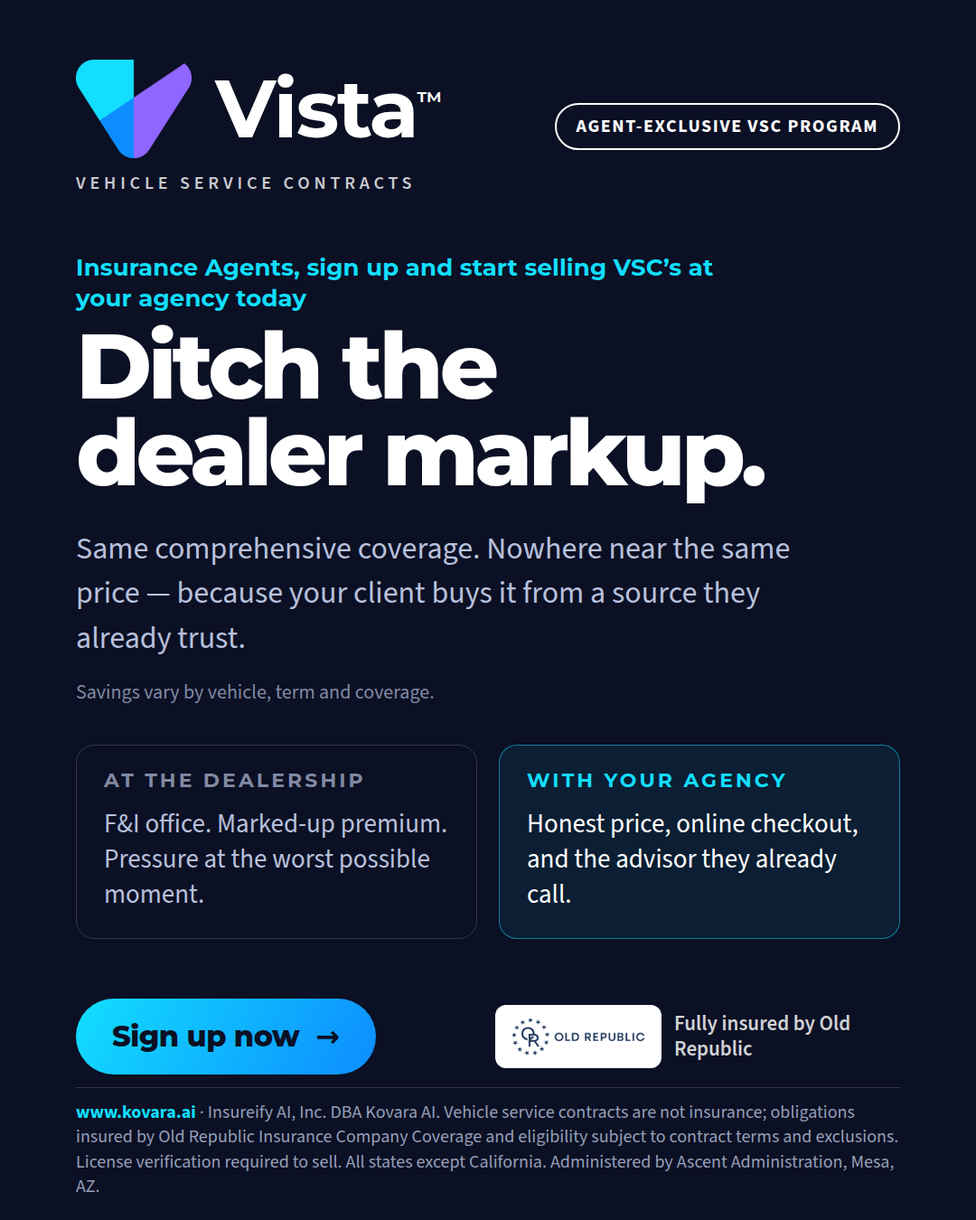
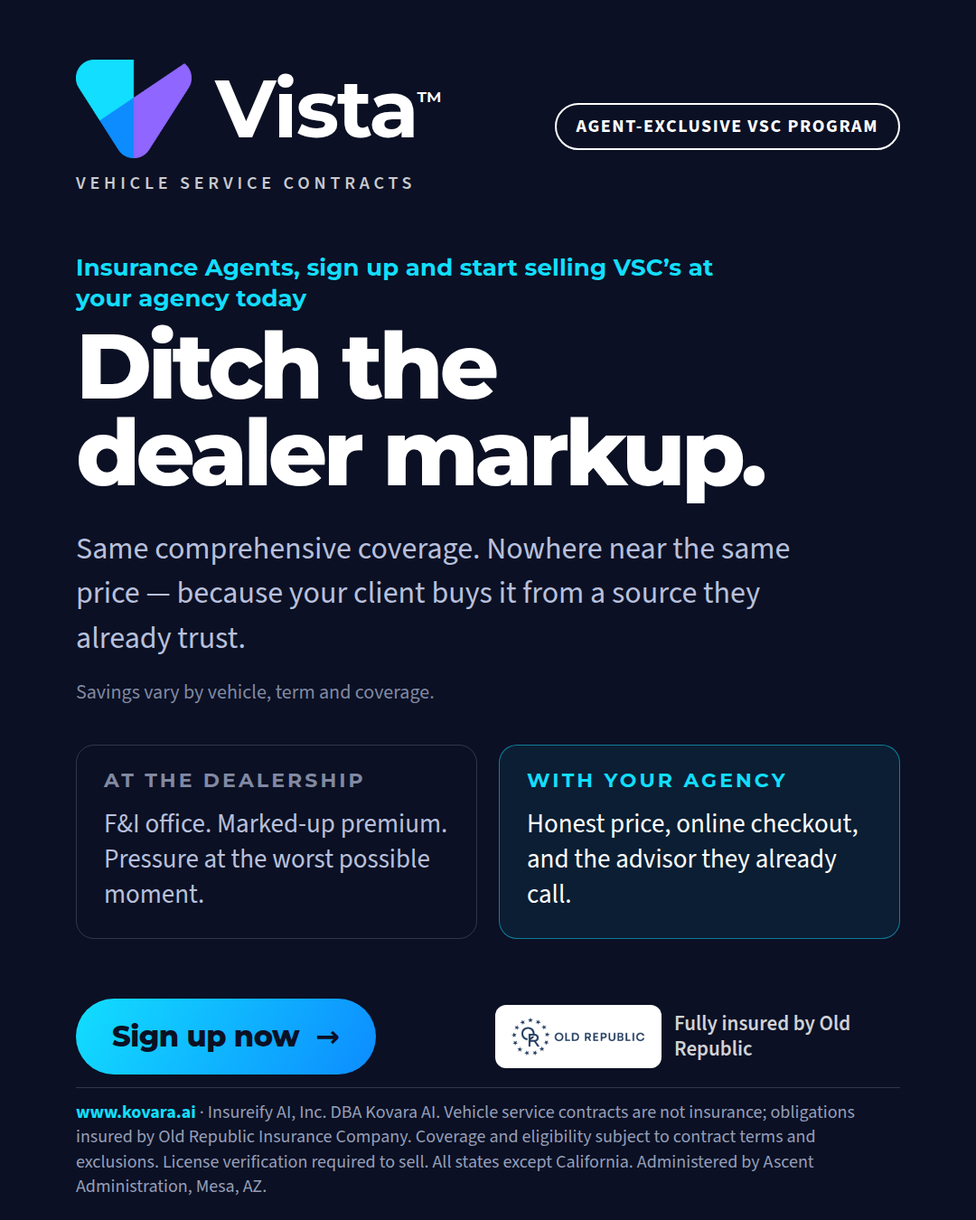
Fix the run-on in the Old Republic disclosure and re-export the creatives
A missing full stop after "Old Republic Insurance Company" ran the obligor
sentence into the terms-and-exclusions sentence, so the block read "...insured by
Old Republic Insurance Company Coverage and eligibility subject to..." — twenty
occurrences across the creatives, the caption boilerplate, the flow prototype and
the handoff README. It is punctuation only; no claim changed.

That also settles the disagreement between the art and the landing page. They now
carry the same text, save one sentence: the page adds the eligible-vehicle
qualifier because it displays a count and an ad does not.

AD_DISCLOSURE and REELS_SHORT_DISCLOSURE join the page constant in
lib/compliance.ts, and tests read the handoff HTML directly to assert all
seventeen CTA-bearing frames carry the block verbatim, that the Reels cuts carry
the short line, and that no run-on comes back. All nineteen creatives re-exported
against the corrected source.

export-ads.mts now takes CHROMIUM_PATH, so it runs where a browser already
exists rather than only against Playwright's own download.

Not addressed, and needing counsel rather than a guess: the disclosure names an
insurer and an administrator but no obligor, and the exact Old Republic
underwriting entity name is still unconfirmed. Both are written up in
ads/README.md; adding a sentence later means one edit and one re-export.

87 tests pass.

Claude-Session: https://claude.ai/code/session_0182HthwowaDjbGPR8FtxGoU

Changed region(s): [[0.0917, 0.9022, 0.9167, 0.9956]]

diff --git a/design_handoff_agent_signup/AgentSignupAds.dc.html b/design_handoff_agent_signup/AgentSignupAds.dc.html
@@ -51,7 +51,7 @@
 <span style="font:600 23px/1.2 var(--font-body);color:rgba(255,255,255,0.82);max-width:250px">Fully insured by Old Republic</span>
 </div>
 </div>
-<div style="font:400 20px/1.38 var(--font-body);color:rgba(184,192,220,0.82);padding-top:14px;border-top:1px solid rgba(255,255,255,0.16)"><b style="color:#12DEFF;font-weight:700">www.kovara.ai</b> &#183; Insureify AI, Inc. DBA Kovara AI. Vehicle service contracts are not insurance; obligations insured by Old Republic Insurance Company Coverage and eligibility subject to contract terms and exclusions. License verification required to sell. All states except California. Administered by Ascent Administration, Mesa, AZ.</div>
+<div style="font:400 20px/1.38 var(--font-body);color:rgba(184,192,220,0.82);padding-top:14px;border-top:1px solid rgba(255,255,255,0.16)"><b style="color:#12DEFF;font-weight:700">www.kovara.ai</b> &#183; Insureify AI, Inc. DBA Kovara AI. Vehicle service contracts are not insurance; obligations insured by Old Republic Insurance Company. Coverage and eligibility subject to contract terms and exclusions. License verification required to sell. All states except California. Administered by Ascent Administration, Mesa, AZ.</div>
 </div>
 </div>
 </div>
@@ -82,7 +82,7 @@
 <span style="font:600 23px/1.2 var(--font-body);color:rgba(255,255,255,0.82);max-width:250px">Fully insured by Old Republic</span>
 </div>
 </div>
-<div style="font:400 20px/1.38 var(--font-body);color:rgba(184,192,220,0.82);padding-top:14px;border-top:1px solid rgba(255,255,255,0.16)"><b style="color:#12DEFF;font-weight:700">www.kovara.ai</b> &#183; Insureify AI, Inc. DBA Kovara AI. Vehicle service contracts are not insurance; obligations insured by Old Republic Insurance Company Coverage and eligibility subject to contract terms and exclusions. License verification required to sell. All states except California. Administered by Ascent Administration, Mesa, AZ.</div>
+<div style="font:400 20px/1.38 var(--font-body);color:rgba(184,192,220,0.82);padding-top:14px;border-top:1px solid rgba(255,255,255,0.16)"><b style="color:#12DEFF;font-weight:700">www.kovara.ai</b> &#183; Insureify AI, Inc. DBA Kovara AI. Vehicle service contracts are not insurance; obligations insured by Old Republic Insurance Company. Coverage and eligibility subject to contract terms and exclusions. License verification required to sell. All states except California. Administered by Ascent Administration, Mesa, AZ.</div>
 </div>
 </div>
 </div>
@@ -117,7 +117,7 @@
 <span style="font:600 23px/1.2 var(--font-body);color:rgba(255,255,255,0.82);max-width:250px">Fully insured by Old Republic</span>
 </div>
 </div>
-<div style="font:400 20px/1.38 var(--font-body);color:rgba(184,192,220,0.82);padding-top:14px;border-top:1px solid rgba(255,255,255,0.16)"><b style="color:#12DEFF;font-weight:700">www.kovara.ai</b> &#183; Insureify AI, Inc. DBA Kovara AI. Vehicle service contracts are not insurance; obligations insured by Old Republic Insurance Company Coverage and eligibility subject to contract terms and exclusions. License verification required to sell. All states except California. Administered by Ascent Administration, Mesa, AZ.</div>
+<div style="font:400 20px/1.38 var(--font-body);color:rgba(184,192,220,0.82);padding-top:14px;border-top:1px solid rgba(255,255,255,0.16)"><b style="color:#12DEFF;font-weight:700">www.kovara.ai</b> &#183; Insureify AI, Inc. DBA Kovara AI. Vehicle service contracts are not insurance; obligations insured by Old Republic Insurance Company. Coverage and eligibility subject to contract terms and exclusions. License verification required to sell. All states except California. Administered by Ascent Administration, Mesa, AZ.</div>
 </div>
 </div>
 </div>
@@ -145,7 +145,7 @@
 <span style="font:600 23px/1.2 var(--font-body);color:rgba(255,255,255,0.82);max-width:250px">Fully insured by Old Republic</span>
 </div>
 </div>
-<div style="font:400 20px/1.38 var(--font-body);color:rgba(184,192,220,0.82);padding-top:14px;border-top:1px solid rgba(255,255,255,0.16)"><b style="color:#12DEFF;font-weight:700">www.kovara.ai</b> &#183; Insureify AI, Inc. DBA Kovara AI. Vehicle service contracts are not insurance; obligations insured by Old Republic Insurance Company Coverage and eligibility subject to contract terms and exclusions. License verification required to sell. All states except California. Administered by Ascent Administration, Mesa, AZ.</div>
+<div style="font:400 20px/1.38 var(--font-body);color:rgba(184,192,220,0.82);padding-top:14px;border-top:1px solid rgba(255,255,255,0.16)"><b style="color:#12DEFF;font-weight:700">www.kovara.ai</b> &#183; Insureify AI, Inc. DBA Kovara AI. Vehicle service contracts are not insurance; obligations insured by Old Republic Insurance Company. Coverage and eligibility subject to contract terms and exclusions. License verification required to sell. All states except California. Administered by Ascent Administration, Mesa, AZ.</div>
 </div>
 </div>
 </div>
@@ -182,7 +182,7 @@
 <span style="font:600 23px/1.2 var(--font-body);color:rgba(255,255,255,0.82);max-width:250px">Fully insured by Old Republic</span>
 </div>
 </div>
-<div style="font:400 20px/1.38 var(--font-body);color:rgba(184,192,220,0.82);padding-top:14px;border-top:1px solid rgba(255,255,255,0.16)"><b style="color:#12DEFF;font-weight:700">www.kovara.ai</b> &#183; Insureify AI, Inc. DBA Kovara AI. Vehicle service contracts are not insurance; obligations insured by Old Republic Insurance Company Coverage and eligibility subject to contract terms and exclusions. License verification required to sell. All states except California. Administered by Ascent Administration, Mesa, AZ.</div>
+<div style="font:400 20px/1.38 var(--font-body);color:rgba(184,192,220,0.82);padding-top:14px;border-top:1px solid rgba(255,255,255,0.16)"><b style="color:#12DEFF;font-weight:700">www.kovara.ai</b> &#183; Insureify AI, Inc. DBA Kovara AI. Vehicle service contracts are not insurance; obligations insured by Old Republic Insurance Company. Coverage and eligibility subject to contract terms and exclusions. License verification required to sell. All states except California. Administered by Ascent Administration, Mesa, AZ.</div>
 </div>
 </div>
 </div>
@@ -215,7 +215,7 @@
 <a href="https://www.kovara.ai/onboarding?utm_source=meta&amp;utm_medium=paid_social&amp;utm_campaign=agent_signup&amp;utm_content=B1" style="display:inline-flex;align-items:center;gap:18px;background:#1D254C;color:#FFFFFF;font:800 32px/1 var(--font-display);letter-spacing:-0.015em;padding:26px 40px;border-radius:999px;text-decoration:none;white-space:nowrap">Sign up now<span style="font:700 34px/1">&#8594;</span></a>
 <div style="display:flex;align-items:center;gap:14px"><span style="background:#FFFFFF;border:1px solid rgba(29,37,76,0.12);border-radius:12px;padding:12px 16px;display:inline-flex"><img src="assets/old-republic-logo.png" alt="Old Republic" style="height:42px;width:auto"></span><span style="font:600 23px/1.2 var(--font-body);color:inherit;opacity:0.85;max-width:250px">Fully insured by Old Republic</span></div>
 </div>
-<div style="font:400 20px/1.38 var(--font-body);color:rgba(29,37,76,0.88);padding-top:14px;border-top:1px solid rgba(29,37,76,0.2)"><b style="color:#1D254C;font-weight:700">www.kovara.ai</b> &#183; Insureify AI, Inc. DBA Kovara AI. Vehicle service contracts are not insurance; obligations insured by Old Republic Insurance Company Coverage and eligibility subject to contract terms and exclusions. License verification required to sell. All states except California. Administered by Ascent Administration, Mesa, AZ.</div>
+<div style="font:400 20px/1.38 var(--font-body);color:rgba(29,37,76,0.88);padding-top:14px;border-top:1px solid rgba(29,37,76,0.2)"><b style="color:#1D254C;font-weight:700">www.kovara.ai</b> &#183; Insureify AI, Inc. DBA Kovara AI. Vehicle service contracts are not insurance; obligations insured by Old Republic Insurance Company. Coverage and eligibility subject to contract terms and exclusions. License verification required to sell. All states except California. Administered by Ascent Administration, Mesa, AZ.</div>
 </div>
 </div>
 </div>
@@ -249,7 +249,7 @@
 <a href="https://www.kovara.ai/onboarding?utm_source=meta&amp;utm_medium=paid_social&amp;utm_campaign=agent_signup&amp;utm_content=B2" style="display:inline-flex;align-items:center;gap:18px;background:linear-gradient(120deg,#12DEFF 0%,#0D8CFF 100%);color:#0B1024;font:800 32px/1 var(--font-display);letter-spacing:-0.015em;padding:26px 40px;border-radius:999px;text-decoration:none;white-space:nowrap">Sign up now<span style="font:700 34px/1">&#8594;</span></a>
 <div style="display:flex;align-items:center;gap:14px"><span style="background:#FFFFFF;border:1px solid rgba(29,37,76,0.12);border-radius:12px;padding:12px 16px;display:inline-flex"><img src="assets/old-republic-logo.png" alt="Old Republic" style="height:42px;width:auto"></span><span style="font:600 23px/1.2 var(--font-body);color:inherit;opacity:0.85;max-width:250px">Fully insured by Old Republic</span></div>
 </div>
-<div style="font:400 20px/1.38 var(--font-body);color:#4E5670;padding-top:14px;border-top:1px solid rgba(29,37,76,0.14)"><b style="color:#0D8CFF;font-weight:700">www.kovara.ai</b> &#183; Insureify AI, Inc. DBA Kovara AI. Vehicle service contracts are not insurance; obligations insured by Old Republic Insurance Company Coverage and eligibility subject to contract terms and exclusions. License verification required to sell. All states except California. Administered by Ascent Administration, Mesa, AZ.</div>
+<div style="font:400 20px/1.38 var(--font-body);color:#4E5670;padding-top:14px;border-top:1px solid rgba(29,37,76,0.14)"><b style="color:#0D8CFF;font-weight:700">www.kovara.ai</b> &#183; Insureify AI, Inc. DBA Kovara AI. Vehicle service contracts are not insurance; obligations insured by Old Republic Insurance Company. Coverage and eligibility subject to contract terms and exclusions. License verification required to sell. All states except California. Administered by Ascent Administration, Mesa, AZ.</div>
 </div>
 </div>
 </div>
@@ -274,7 +274,7 @@
 <a href="https://www.kovara.ai/onboarding?utm_source=meta&amp;utm_medium=paid_social&amp;utm_campaign=agent_signup&amp;utm_content=B3" style="display:inline-flex;align-items:center;gap:18px;background:#12DEFF;color:#0B1024;font:800 32px/1 var(--font-display);letter-spacing:-0.015em;padding:26px 40px;border-radius:999px;text-decoration:none;white-space:nowrap">Sign up now<span style="font:700 34px/1">&#8594;</span></a>
 <div style="display:flex;align-items:center;gap:14px"><span style="background:#FFFFFF;border-radius:12px;padding:12px 16px;display:inline-flex"><img src="assets/old-republic-logo.png" alt="Old Republic" style="height:42px;width:auto"></span><span style="font:600 23px/1.2 var(--font-body);color:inherit;opacity:0.85;max-width:250px">Fully insured by Old Republic</span></div>
 </div>
-<div style="font:400 20px/1.38 var(--font-body);color:rgba(184,192,220,0.82);padding-top:14px;border-top:1px solid rgba(255,255,255,0.16)"><b style="color:#12DEFF;font-weight:700">www.kovara.ai</b> &#183; Insureify AI, Inc. DBA Kovara AI. Vehicle service contracts are not insurance; obligations insured by Old Republic Insurance Company Coverage and eligibility subject to contract terms and exclusions. License verification required to sell. All states except California. Administered by Ascent Administration, Mesa, AZ.</div>
+<div style="font:400 20px/1.38 var(--font-body);color:rgba(184,192,220,0.82);padding-top:14px;border-top:1px solid rgba(255,255,255,0.16)"><b style="color:#12DEFF;font-weight:700">www.kovara.ai</b> &#183; Insureify AI, Inc. DBA Kovara AI. Vehicle service contracts are not insurance; obligations insured by Old Republic Insurance Company. Coverage and eligibility subject to contract terms and exclusions. License verification required to sell. All states except California. Administered by Ascent Administration, Mesa, AZ.</div>
 </div>
 </div>
 </div>
@@ -300,7 +300,7 @@
 <a href="https://www.kovara.ai/onboarding?utm_source=meta&amp;utm_medium=paid_social&amp;utm_campaign=agent_signup&amp;utm_content=B4" style="display:inline-flex;align-items:center;gap:18px;background:linear-gradient(120deg,#12DEFF 0%,#0D8CFF 100%);color:#0B1024;font:800 32px/1 var(--font-display);letter-spacing:-0.015em;padding:26px 40px;border-radius:999px;text-decoration:none;white-space:nowrap">Sign up now<span style="font:700 34px/1">&#8594;</span></a>
 <div style="display:flex;align-items:center;gap:14px"><span style="background:#FFFFFF;border:1px solid rgba(29,37,76,0.12);border-radius:12px;padding:12px 16px;display:inline-flex"><img src="assets/old-republic-logo.png" alt="Old Republic" style="height:42px;width:auto"></span><span style="font:600 23px/1.2 var(--font-body);color:inherit;opacity:0.85;max-width:250px">Fully insured by Old Republic</span></div>
 </div>
-<div style="font:400 20px/1.38 var(--font-body);color:#4E5670;padding-top:14px;border-top:1px solid rgba(29,37,76,0.14)"><b style="color:#0D8CFF;font-weight:700">www.kovara.ai</b> &#183; Insureify AI, Inc. DBA Kovara AI. Vehicle service contracts are not insurance; obligations insured by Old Republic Insurance Company Coverage and eligibility subject to contract terms and exclusions. License verification required to sell. All states except California. Administered by Ascent Administration, Mesa, AZ.</div>
+<div style="font:400 20px/1.38 var(--font-body);color:#4E5670;padding-top:14px;border-top:1px solid rgba(29,37,76,0.14)"><b style="color:#0D8CFF;font-weight:700">www.kovara.ai</b> &#183; Insureify AI, Inc. DBA Kovara AI. Vehicle service contracts are not insurance; obligations insured by Old Republic Insurance Company. Coverage and eligibility subject to contract terms and exclusions. License verification required to sell. All states except California. Administered by Ascent Administration, Mesa, AZ.</div>
 </div>
 </div>
 </div>
@@ -328,7 +328,7 @@
 <a href="https://www.kovara.ai/onboarding?utm_source=meta&amp;utm_medium=paid_social&amp;utm_campaign=agent_signup&amp;utm_content=B5" style="display:inline-flex;align-items:center;gap:18px;background:#1D254C;color:#FFFFFF;font:800 32px/1 var(--font-display);letter-spacing:-0.015em;padding:26px 40px;border-radius:999px;text-decoration:none;white-space:nowrap">Sign up now<span style="font:700 34px/1">&#8594;</span></a>
 <div style="display:flex;align-items:center;gap:14px"><span style="background:#FFFFFF;border-radius:12px;padding:12px 16px;display:inline-flex"><img src="assets/old-republic-logo.png" alt="Old Republic" style="height:42px;width:auto"></span><span style="font:600 23px/1.2 var(--font-body);color:inherit;opacity:0.85;max-width:250px">Fully insured by Old Republic</span></div>
 </div>
-<div style="font:400 20px/1.38 var(--font-body);color:rgba(11,16,36,0.94);padding-top:14px;border-top:1px solid rgba(11,16,36,0.2)"><b style="color:#0B1024;font-weight:700">www.kovara.ai</b> &#183; Insureify AI, Inc. DBA Kovara AI. Vehicle service contracts are not insurance; obligations insured by Old Republic Insurance Company Coverage and eligibility subject to contract terms and exclusions. License verification required to sell. All states except California. Administered by Ascent Administration, Mesa, AZ.</div>
+<div style="font:400 20px/1.38 var(--font-body);color:rgba(11,16,36,0.94);padding-top:14px;border-top:1px solid rgba(11,16,36,0.2)"><b style="color:#0B1024;font-weight:700">www.kovara.ai</b> &#183; Insureify AI, Inc. DBA Kovara AI. Vehicle service contracts are not insurance; obligations insured by Old Republic Insurance Company. Coverage and eligibility subject to contract terms and exclusions. License verification required to sell. All states except California. Administered by Ascent Administration, Mesa, AZ.</div>
 </div>
 </div>
 </div>
@@ -356,7 +356,7 @@
 <a href="https://www.kovara.ai/onboarding?utm_source=meta&amp;utm_medium=paid_social&amp;utm_campaign=agent_signup&amp;utm_content=S1" style="display:inline-flex;align-items:center;gap:18px;background:linear-gradient(120deg,#12DEFF 0%,#0D8CFF 100%);color:#0B1024;font:800 32px/1 var(--font-display);letter-spacing:-0.015em;padding:26px 40px;border-radius:999px;text-decoration:none;white-space:nowrap">Sign up now<span style="font:700 34px/1">&#8594;</span></a>
 <div style="display:flex;align-items:center;gap:14px"><span style="background:#FFFFFF;border:1px solid rgba(29,37,76,0.12);border-radius:12px;padding:12px 16px;display:inline-flex"><img src="assets/old-republic-logo.png" alt="Old Republic" style="height:42px;width:auto"></span><span style="font:600 23px/1.2 var(--font-body);color:inherit;opacity:0.85;max-width:250px">Fully insured by Old Republic</span></div>
 </div>
-<div style="font:400 20px/1.38 var(--font-body);color:rgba(184,192,220,0.82);padding-top:14px;border-top:1px solid rgba(255,255,255,0.16)"><b style="color:#12DEFF;font-weight:700">www.kovara.ai</b> &#183; Insureify AI, Inc. DBA Kovara AI. Vehicle service contracts are not insurance; obligations insured by Old Republic Insurance Company Coverage and eligibility subject to contract terms and exclusions. License verification required to sell. All states except California. Administered by Ascent Administration, Mesa, AZ.</div>
+<div style="font:400 20px/1.38 var(--font-body);color:rgba(184,192,220,0.82);padding-top:14px;border-top:1px solid rgba(255,255,255,0.16)"><b style="color:#12DEFF;font-weight:700">www.kovara.ai</b> &#183; Insureify AI, Inc. DBA Kovara AI. Vehicle service contracts are not insurance; obligations insured by Old Republic Insurance Company. Coverage and eligibility subject to contract terms and exclusions. License verification required to sell. All states except California. Administered by Ascent Administration, Mesa, AZ.</div>
 </div>
 </div>
 <div style="font:700 16px/1.35 var(--font-body);color:#353C54">S1 · 1:1 &#183; Speed (Ledger)</div>
@@ -374,7 +374,7 @@
 <a href="https://www.kovara.ai/onboarding?utm_source=meta&amp;utm_medium=paid_social&amp;utm_campaign=agent_signup&amp;utm_content=S2" style="display:inline-flex;align-items:center;gap:18px;background:linear-gradient(120deg,#12DEFF 0%,#0D8CFF 100%);color:#0B1024;font:800 32px/1 var(--font-display);letter-spacing:-0.015em;padding:26px 40px;border-radius:999px;text-decoration:none;white-space:nowrap">Sign up now<span style="font:700 34px/1">&#8594;</span></a>
 <div style="display:flex;align-items:center;gap:14px"><span style="background:#FFFFFF;border:1px solid rgba(29,37,76,0.12);border-radius:12px;padding:12px 16px;display:inline-flex"><img src="assets/old-republic-logo.png" alt="Old Republic" style="height:42px;width:auto"></span><span style="font:600 23px/1.2 var(--font-body);color:inherit;opacity:0.85;max-width:250px">Fully insured by Old Republic</span></div>
 </div>
-<div style="font:400 20px/1.38 var(--font-body);color:rgba(184,192,220,0.82);padding-top:14px;border-top:1px solid rgba(255,255,255,0.16)"><b style="color:#12DEFF;font-weight:700">www.kovara.ai</b> &#183; Insureify AI, Inc. DBA Kovara AI. Vehicle service contracts are not insurance; obligations insured by Old Republic Insurance Company Coverage and eligibility subject to contract terms and exclusions. License verification required to sell. All states except California. Administered by Ascent Administration, Mesa, AZ.</div>
+<div style="font:400 20px/1.38 var(--font-body);color:rgba(184,192,220,0.82);padding-top:14px;border-top:1px solid rgba(255,255,255,0.16)"><b style="color:#12DEFF;font-weight:700">www.kovara.ai</b> &#183; Insureify AI, Inc. DBA Kovara AI. Vehicle service contracts are not insurance; obligations insured by Old Republic Insurance Company. Coverage and eligibility subject to contract terms and exclusions. License verification required to sell. All states except California. Administered by Ascent Administration, Mesa, AZ.</div>
 </div>
 </div>
 <div style="font:700 16px/1.35 var(--font-body);color:#353C54">S2 · 1:1 &#183; Dealer markup (Ledger)</div>
@@ -396,7 +396,7 @@
 <a href="https://www.kovara.ai/onboarding?utm_source=meta&amp;utm_medium=paid_social&amp;utm_campaign=agent_signup&amp;utm_content=S3" style="display:inline-flex;align-items:center;gap:18px;background:#1D254C;color:#FFFFFF;font:800 32px/1 var(--font-display);letter-spacing:-0.015em;padding:26px 40px;border-radius:999px;text-decoration:none;white-space:nowrap">Sign up now<span style="font:700 34px/1">&#8594;</span></a>
 <div style="display:flex;align-items:center;gap:14px"><span style="background:#FFFFFF;border:1px solid rgba(29,37,76,0.12);border-radius:12px;padding:12px 16px;display:inline-flex"><img src="assets/old-republic-logo.png" alt="Old Republic" style="height:42px;width:auto"></span><span style="font:600 23px/1.2 var(--font-body);color:inherit;opacity:0.85;max-width:250px">Fully insured by Old Republic</span></div>
 </div>
-<div style="font:400 20px/1.38 var(--font-body);color:#4E5670;padding-top:14px;border-top:1px solid rgba(29,37,76,0.14)"><b style="color:#0D8CFF;font-weight:700">www.kovara.ai</b> &#183; Insureify AI, Inc. DBA Kovara AI. Vehicle service contracts are not insurance; obligations insured by Old Republic Insurance Company Coverage and eligibility subject to contract terms and exclusions. License verification required to sell. All states except California. Administered by Ascent Administration, Mesa, AZ.</div>
+<div style="font:400 20px/1.38 var(--font-body);color:#4E5670;padding-top:14px;border-top:1px solid rgba(29,37,76,0.14)"><b style="color:#0D8CFF;font-weight:700">www.kovara.ai</b> &#183; Insureify AI, Inc. DBA Kovara AI. Vehicle service contracts are not insurance; obligations insured by Old Republic Insurance Company. Coverage and eligibility subject to contract terms and exclusions. License verification required to sell. All states except California. Administered by Ascent Administration, Mesa, AZ.</div>
 </div>
 </div>
 <div style="font:700 16px/1.35 var(--font-body);color:#353C54">S3 · 1:1 &#183; $5K coverage (Signal)</div>
@@ -415,7 +415,7 @@
 <a href="https://www.kovara.ai/onboarding?utm_source=meta&amp;utm_medium=paid_social&amp;utm_campaign=agent_signup&amp;utm_content=R1" style="display:inline-flex;align-items:center;gap:18px;background:linear-gradient(120deg,#12DEFF 0%,#0D8CFF 100%);color:#0B1024;font:800 32px/1 var(--font-display);letter-spacing:-0.015em;padding:26px 40px;border-radius:999px;text-decoration:none;white-space:nowrap">Sign up now<span style="font:700 34px/1">&#8594;</span></a>
 <div style="display:flex;align-items:center;gap:14px"><span style="background:#FFFFFF;border:1px solid rgba(29,37,76,0.12);border-radius:12px;padding:12px 16px;display:inline-flex"><img src="assets/old-republic-logo.png" alt="Old Republic" style="height:42px;width:auto"></span><span style="font:600 23px/1.2 var(--font-body);color:inherit;opacity:0.85;max-width:250px">Fully insured by Old Republic</span></div>
 </div>
-<div style="font:400 20px/1.38 var(--font-body);color:rgba(184,192,220,0.82);padding-top:14px;border-top:1px solid rgba(255,255,255,0.16)"><b style="color:#12DEFF;font-weight:700">www.kovara.ai</b> &#183; Insureify AI, Inc. DBA Kovara AI. Vehicle service contracts are not insurance; obligations insured by Old Republic Insurance Company Coverage and eligibility subject to contract terms and exclusions. License verification required to sell. All states except California. Administered by Ascent Administration, Mesa, AZ.</div>
+<div style="font:400 20px/1.38 var(--font-body);color:rgba(184,192,220,0.82);padding-top:14px;border-top:1px solid rgba(255,255,255,0.16)"><b style="color:#12DEFF;font-weight:700">www.kovara.ai</b> &#183; Insureify AI, Inc. DBA Kovara AI. Vehicle service contracts are not insurance; obligations insured by Old Republic Insurance Company. Coverage and eligibility subject to contract terms and exclusions. License verification required to sell. All states except California. Administered by Ascent Administration, Mesa, AZ.</div>
 </div>
 </div>
 <div style="font:700 16px/1.35 var(--font-body);color:#353C54">R1 · 9:16 Stories &#183; Speed (Ledger)</div>
@@ -433,7 +433,7 @@
 <a href="https://www.kovara.ai/onboarding?utm_source=meta&amp;utm_medium=paid_social&amp;utm_campaign=agent_signup&amp;utm_content=R2" style="display:inline-flex;align-items:center;gap:18px;background:linear-gradient(120deg,#12DEFF 0%,#0D8CFF 100%);color:#0B1024;font:800 32px/1 var(--font-display);letter-spacing:-0.015em;padding:26px 40px;border-radius:999px;text-decoration:none;white-space:nowrap">Sign up now<span style="font:700 34px/1">&#8594;</span></a>
 <div style="display:flex;align-items:center;gap:14px"><span style="background:#FFFFFF;border:1px solid rgba(29,37,76,0.12);border-radius:12px;padding:12px 16px;display:inline-flex"><img src="assets/old-republic-logo.png" alt="Old Republic" style="height:42px;width:auto"></span><span style="font:600 23px/1.2 var(--font-body);color:inherit;opacity:0.85;max-width:250px">Fully insured by Old Republic</span></div>
 </div>
-<div style="font:400 20px/1.38 var(--font-body);color:rgba(184,192,220,0.82);padding-top:14px;border-top:1px solid rgba(255,255,255,0.16)"><b style="color:#12DEFF;font-weight:700">www.kovara.ai</b> &#183; Insureify AI, Inc. DBA Kovara AI. Vehicle service contracts are not insurance; obligations insured by Old Republic Insurance Company Coverage and eligibility subject to contract terms and exclusions. License verification required to sell. All states except California. Administered by Ascent Administration, Mesa, AZ.</div>
+<div style="font:400 20px/1.38 var(--font-body);color:rgba(184,192,220,0.82);padding-top:14px;border-top:1px solid rgba(255,255,255,0.16)"><b style="color:#12DEFF;font-weight:700">www.kovara.ai</b> &#183; Insureify AI, Inc. DBA Kovara AI. Vehicle service contracts are not insurance; obligations insured by Old Republic Insurance Company. Coverage and eligibility subject to contract terms and exclusions. License verification required to sell. All states except California. Administered by Ascent Administration, Mesa, AZ.</div>
 </div>
 </div>
 <div style="font:700 16px/1.35 var(--font-body);color:#353C54">R2 · 9:16 Stories &#183; Dealer markup (Ledger)</div>
@@ -453,7 +453,7 @@
 <a href="https://www.kovara.ai/onboarding?utm_source=meta&amp;utm_medium=paid_social&amp;utm_campaign=agent_signup&amp;utm_content=R3" style="display:inline-flex;align-items:center;gap:18px;background:#1D254C;color:#FFFFFF;font:800 32px/1 var(--font-display);letter-spacing:-0.015em;padding:26px 40px;border-radius:999px;text-decoration:none;white-space:nowrap">Sign up now<span style="font:700 34px/1">&#8594;</span></a>
 <div style="display:flex;align-items:center;gap:14px"><span style="background:#FFFFFF;border:1px solid rgba(29,37,76,0.12);border-radius:12px;padding:12px 16px;display:inline-flex"><img src="assets/old-republic-logo.png" alt="Old Republic" style="height:42px;width:auto"></span><span style="font:600 23px/1.2 var(--font-body);color:inherit;opacity:0.85;max-width:250px">Fully insured by Old Republic</span></div>
 </div>
-<div style="font:400 20px/1.38 var(--font-body);color:rgba(29,37,76,0.88);padding-top:14px;border-top:1px solid rgba(29,37,76,0.2)"><b style="color:#1D254C;font-weight:700">www.kovara.ai</b> &#183; Insureify AI, Inc. DBA Kovara AI. Vehicle service contracts are not insurance; obligations insured by Old Republic Insurance Company Coverage and eligibility subject to contract terms and exclusions. License verification required to sell. All states except California. Administered by Ascent Administration, Mesa, AZ.</div>
+<div style="font:400 20px/1.38 var(--font-body);color:rgba(29,37,76,0.88);padding-top:14px;border-top:1px solid rgba(29,37,76,0.2)"><b style="color:#1D254C;font-weight:700">www.kovara.ai</b> &#183; Insureify AI, Inc. DBA Kovara AI. Vehicle service contracts are not insurance; obligations insured by Old Republic Insurance Company. Coverage and eligibility subject to contract terms and exclusions. License verification required to sell. All states except California. Administered by Ascent Administration, Mesa, AZ.</div>
 </div>
 </div>
 <div style="font:700 16px/1.35 var(--font-body);color:#353C54">R3 · 9:16 Stories &#183; $5K coverage (Signal)</div>
@@ -519,7 +519,7 @@
 <a href="https://www.kovara.ai/onboarding?utm_source=meta&amp;utm_medium=paid_social&amp;utm_campaign=agent_signup&amp;utm_content=P1" style="display:inline-flex;align-items:center;gap:18px;background:linear-gradient(120deg,#12DEFF 0%,#0D8CFF 100%);color:#0B1024;font:800 32px/1 var(--font-display);letter-spacing:-0.015em;padding:26px 40px;border-radius:999px;text-decoration:none;white-space:nowrap">Sign up now<span style="font:700 34px/1">&#8594;</span></a>
 <div style="display:flex;align-items:center;gap:14px"><span style="background:#FFFFFF;border:1px solid rgba(29,37,76,0.12);border-radius:12px;padding:12px 16px;display:inline-flex"><img src="assets/old-republic-logo.png" alt="Old Republic" style="height:42px;width:auto"></span><span style="font:600 23px/1.2 var(--font-body);color:inherit;opacity:0.85;max-width:250px">Fully insured by Old Republic</span></div>
 </div>
-<div style="font:400 20px/1.38 var(--font-body);color:rgba(184,192,220,0.82);padding-top:14px;border-top:1px solid rgba(255,255,255,0.16)"><b style="color:#12DEFF;font-weight:700">www.kovara.ai</b> &#183; Insureify AI, Inc. DBA Kovara AI. Vehicle service contracts are not insurance; obligations insured by Old Republic Insurance Company Coverage and eligibility subject to contract terms and exclusions. License verification required to sell. All states except California. Administered by Ascent Administration, Mesa, AZ.</div>
+<div style="font:400 20px/1.38 var(--font-body);color:rgba(184,192,220,0.82);padding-top:14px;border-top:1px solid rgba(255,255,255,0.16)"><b style="color:#12DEFF;font-weight:700">www.kovara.ai</b> &#183; Insureify AI, Inc. DBA Kovara AI. Vehicle service contracts are not insurance; obligations insured by Old Republic Insurance Company. Coverage and eligibility subject to contract terms and exclusions. License verification required to sell. All states except California. Administered by Ascent Administration, Mesa, AZ.</div>
 </div>
 </div>
 </div>

diff --git a/src/lib/compliance.ts b/src/lib/compliance.ts
@@ -4,14 +4,30 @@
  * Do not edit, shorten, or reflow. It renders at `--text-body` (#353C54) on the
  * page surface — deliberately not the lowest-contrast text on the page.
  *
- * Note for legal review: the handoff carries three slightly different wordings of
- * this block (PROMPT.md, README.md, and the flow prototype's footer). PROMPT.md is
- * the one reproduced here because it is the only version that punctuates
- * "Old Republic Insurance Company." correctly and includes the eligible-count line.
- * Confirm the exact Old Republic underwriting entity name before launch.
+ * Still open for legal review: the disclosure names an insurer (Old Republic) and
+ * an administrator (Ascent) but no obligor. Confirm both the exact Old Republic
+ * underwriting entity name and who the contract obligor is before launch — that
+ * is a question for counsel, not something to infer from the handoff.
  */
 export const COMPLIANCE_DISCLOSURE =
   'Insureify AI, Inc. DBA Kovara AI. Vehicle service contracts are not insurance; obligations insured by Old Republic Insurance Company. Coverage and eligibility subject to contract terms and exclusions. License verification required to sell. Eligible-vehicle counts are calculated from your own book at connection. All states except California. Administered by Ascent Administration, Mesa, AZ.';
+
+/**
+ * The disclosure as it appears on the creatives.
+ *
+ * Identical to the page version except that it omits the eligible-vehicle
+ * sentence: that is a claim-specific qualifier, and it belongs only on a surface
+ * that actually shows a count. An ad shows none.
+ *
+ * `tests/compliance.test.ts` asserts the exported creatives carry this string, so
+ * the art and the landing page cannot drift apart again.
+ */
+export const AD_DISCLOSURE =
+  'Insureify AI, Inc. DBA Kovara AI. Vehicle service contracts are not insurance; obligations insured by Old Republic Insurance Company. Coverage and eligibility subject to contract terms and exclusions. License verification required to sell. All states except California. Administered by Ascent Administration, Mesa, AZ.';
+
+/** The short in-image line the Reels cuts carry instead of the full block. */
+export const REELS_SHORT_DISCLOSURE =
+  'Vehicle service contracts are not insurance. Available in all states except California. Full terms in the caption.';
 
 export const TRUST_LINE = 'Fully insured by Old Republic';
 export const ADMINISTRATOR_LINE = 'Ascent Administration, Mesa AZ';

diff --git a/tests/compliance.test.ts b/tests/compliance.test.ts
@@ -1,6 +1,15 @@
+import { readFileSync } from 'node:fs';
 import { describe, expect, it } from 'vitest';
-import { COMPLIANCE_DISCLOSURE, QUALIFIERS } from '@/lib/compliance';
+import {
+  AD_DISCLOSURE,
+  COMPLIANCE_DISCLOSURE,
+  QUALIFIERS,
+  REELS_SHORT_DISCLOSURE,
+} from '@/lib/compliance';
 import { LIVE_PANEL } from '@/lib/ams/copy';
+
+const ADS_HTML = readFileSync('design_handoff_agent_signup/AgentSignupAds.dc.html', 'utf8');
+const CAPTIONS = readFileSync('design_handoff_agent_signup/CAPTIONS.md', 'utf8');
 
 describe('the disclosure block', () => {
   it('is the approved text, unedited', () => {
@@ -32,5 +41,37 @@ describe('claim-specific qualifiers', () => {
     expect(LIVE_PANEL.countDisclosure).toBe(
       'Eligible-vehicle counts are calculated from your own book at connection.',
     );
+  });
+});
+
+describe('the creatives carry the same disclosure as the page', () => {
+  it('puts the ad disclosure on every CTA-bearing frame', () => {
+    // Seventeen frames carry the full block; the three Reels cuts carry the short
+    // line instead, because Reels covers the bottom third with its own chrome.
+    const occurrences = ADS_HTML.split(AD_DISCLOSURE).length - 1;
+    expect(occurrences).toBe(17);
+  });
+
+  it('gives the Reels cuts the short line, which defers to the caption', () => {
+    expect(ADS_HTML).toContain(REELS_SHORT_DISCLOSURE);
+  });
+
+  it('differs from the page version only by the eligible-count qualifier', () => {
+    const qualifier = ' Eligible-vehicle counts are calculated from your own book at connection.';
+    expect(COMPLIANCE_DISCLOSURE.replace(qualifier, '')).toBe(AD_DISCLOSURE);
+  });
+
+  it('leaves no run-on between the obligor and the terms sentence', () => {
+    // The defect this guards: a missing full stop turned "…insured by Old Republic
+    // Insurance Company." and "Coverage and eligibility subject to…" into one
+    // unreadable sentence, across all seventeen frames and the caption boilerplate.
+    for (const source of [ADS_HTML, CAPTIONS]) {
+      expect(source).not.toContain('Insurance Company Coverage');
+    }
+  });
+
+  it('keeps the full boilerplate in the caption file the Reels cuts depend on', () => {
+    expect(CAPTIONS).toContain('Old Republic Insurance Company. Coverage');
+    expect(CAPTIONS).toContain('Available in all states except California');
   });
 });

diff --git a/design_handoff_agent_signup/AgentSignupFlow.dc.html b/design_handoff_agent_signup/AgentSignupFlow.dc.html
@@ -140,7 +140,7 @@
 <span style="background:#fff;border:1px solid #E4E7EF;border-radius:8px;padding:7px 10px;display:inline-flex"><img src="assets/old-republic-logo.png" alt="Old Republic" style="height:20px;width:auto"></span>
 <span style="font:600 14px/1.2 var(--font-body);color:#4E5670">Fully insured by Old Republic</span>
 </div>
-<div style="font:400 14px/1.5 var(--font-body);color:#4E5670">Insureify AI, Inc. DBA Kovara AI. Vehicle service contracts are not insurance; contract obligations are insured by Old Republic Insurance Company Coverage, limits and eligibility are subject to contract terms and exclusions. Producer license verification required before selling. Available in all states except California. Administered by Ascent Administration, Mesa, AZ.</div>
+<div style="font:400 14px/1.5 var(--font-body);color:#4E5670">Insureify AI, Inc. DBA Kovara AI. Vehicle service contracts are not insurance; contract obligations are insured by Old Republic Insurance Company. Coverage, limits and eligibility are subject to contract terms and exclusions. Producer license verification required before selling. Available in all states except California. Administered by Ascent Administration, Mesa, AZ.</div>
 </div>
 </div>
 </x-dc>

diff --git a/ads/README.md b/ads/README.md
@@ -5,7 +5,17 @@ Nineteen finished creatives, exported at true pixel size from
 Meta with the destination URL below. No engineering needed to run them; the only
 app-side dependency is UTM capture, which is already live on `/onboarding`.
 
-Regenerate with `node --experimental-strip-types scripts/export-ads.mts`.
+Regenerate with:
+
+```bash
+node --experimental-strip-types scripts/export-ads.mts
+```
+
+It needs a Chromium (`npx playwright install chromium`, or set `CHROMIUM_PATH`
+to one already on disk) and reaches fonts.googleapis.com for Montserrat and
+Source Sans 3. Where that host is unreachable, drop the `.woff2` files into
+`ads/fonts/` and the script uses those instead — without one or the other the
+export falls back to a system face and is not usable.
 
 ## Destination URL
 
@@ -74,19 +84,31 @@ The creative avoids every trigger — no hiring language, no office imagery, no
 income claims. Keep it that way in any new copy; `CAPTIONS.md` has the
 do-not-write list.
 
-## Known issue before upload
+## Compliance
 
-The compliance block on these creatives reads:
+The block on every CTA-bearing frame reads:
 
-> …obligations insured by Old Republic Insurance Company Coverage and eligibility
-> subject to contract terms and exclusions.
+> Insureify AI, Inc. DBA Kovara AI. Vehicle service contracts are not insurance;
+> obligations insured by Old Republic Insurance Company. Coverage and eligibility
+> subject to contract terms and exclusions. License verification required to sell.
+> All states except California. Administered by Ascent Administration, Mesa, AZ.
 
-There is a **missing full stop after "Old Republic Insurance Company"**, which
-runs two sentences together. The onboarding page uses the corrected wording from
-`PROMPT.md`, so the ads and the landing page currently disagree. Pick one
-wording, and if it is the corrected one, fix
-`design_handoff_agent_signup/AgentSignupAds.dc.html` and re-run the export —
-all nineteen regenerate in about a minute.
+This is the same text the onboarding page carries, minus one sentence: the page
+adds *"Eligible-vehicle counts are calculated from your own book at connection."*
+because it displays a count and an ad does not. `tests/compliance.test.ts` asserts
+all seventeen frames carry it verbatim and that it still matches the page, so the
+art and the landing page cannot drift apart.
 
-Legal review is still outstanding on this language either way; confirm the exact
-Old Republic underwriting entity name before spending money against it.
+The three Reels cuts carry the short line instead — *"Vehicle service contracts
+are not insurance. Available in all states except California. Full terms in the
+caption."* — which is why **a Reels cut must never run with a truncated caption**.
+
+### Still open for counsel
+
+The disclosure names an **insurer** (Old Republic) and an **administrator**
+(Ascent) but no **obligor** — the entity actually on the hook for the contract.
+Most VSC disclosure regimes want that named. It is not in the handoff and is not
+something to infer, so it needs an answer from counsel along with confirmation of
+the exact Old Republic underwriting entity name. If a sentence is added, put it in
+`src/lib/compliance.ts` and re-run the export; the page and all nineteen creatives
+update together.

diff --git a/design_handoff_agent_signup/CAPTIONS.md b/design_handoff_agent_signup/CAPTIONS.md
@@ -2,7 +2,7 @@
 
 Boilerplate for every caption (paste as the last block, above hashtags):
 
-> Vehicle service contracts are not insurance; contract obligations are insured by Old Republic Insurance Company Coverage, limits and eligibility are subject to contract terms and exclusions. Producer license verification is required before selling. Available in all states except California. Administered by Ascent Administration, Mesa, AZ. Insureify AI, Inc. DBA Kovara AI.
+> Vehicle service contracts are not insurance; contract obligations are insured by Old Republic Insurance Company. Coverage, limits and eligibility are subject to contract terms and exclusions. Producer license verification is required before selling. Available in all states except California. Administered by Ascent Administration, Mesa, AZ. Insureify AI, Inc. DBA Kovara AI.
 
 Hashtags (rotate 6–8, never in the image):
 `#insuranceagents #independentagent #insuranceagency #vehicleservicecontract #agencygrowth #insurtech #ezlynx #agentlife`

diff --git a/design_handoff_agent_signup/README.md b/design_handoff_agent_signup/README.md
@@ -246,7 +246,7 @@ Every disclosure and trust statement was contrast-audited. Hold the line:
 
 ## Compliance — required on every creative and page
 
-> Insureify AI, Inc. DBA Kovara AI. Vehicle service contracts are not insurance; obligations insured by Old Republic Insurance Company Coverage and eligibility subject to contract terms and exclusions. License verification required to sell. All states except California. Administered by Ascent Administration, Mesa, AZ.
+> Insureify AI, Inc. DBA Kovara AI. Vehicle service contracts are not insurance; obligations insured by Old Republic Insurance Company. Coverage and eligibility subject to contract terms and exclusions. License verification required to sell. All states except California. Administered by Ascent Administration, Mesa, AZ.
 
 Claim-specific qualifiers must sit next to their claim, not in the footer block:
 
